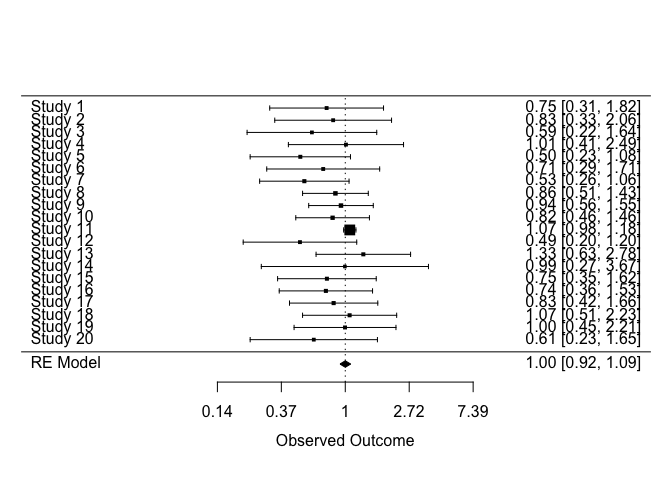
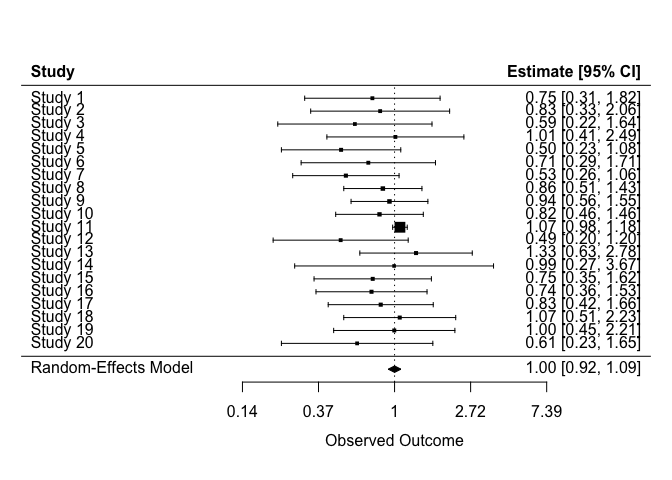
render README

diff --git a/README.md b/README.md
@@ -29,7 +29,7 @@ This package deals with steps 5 and 6.
 ## Installation
 
 ``` r
-devtools::install_github("mcguinlutriangulate")
+devtools::install_github("mcguinlu/triangulate")
 ```
 
 ## :warning: WARNING NOTES
@@ -104,8 +104,7 @@ head(dat_bias)
 #> 6          None Moderate Prop Away from null
 
 tri_dat_check(dat_bias)
-#> Looks good!
-#> All expected columns are present in the dataset.
+#> tri_dat_check(): All expected columns are present (mode = 'minimal').
 ```
 
 For details on how to create these datasets, see the [Creating
@@ -117,25 +116,22 @@ Once we load our data, helper functions will convert it to *long* format
 and convert to absolute directions of bias/indirectness.
 
 ``` r
-
 dat_bias <- triangulate::dat_bias %>%
 
 # Convert to long format
 tri_to_long() %>%
-  
-tri_absolute_direction() %>%
-
-tri_append_bias(triangulate::dat_bias_values)
+  tri_absolute_direction() %>%
+  tri_append_bias(triangulate::dat_bias_values)
 ```
 
 Then apply the same approach to the indirectness dataset:
 
 ``` r
 dat_ind <- triangulate::dat_ind %>%
-# Convert to long format
-tri_to_long() %>%
-tri_absolute_direction() %>%
-tri_append_indirect(triangulate::dat_ind_values)
+  # Convert to long format
+  tri_to_long() %>%
+  tri_absolute_direction() %>%
+  tri_append_indirect(triangulate::dat_ind_values)
 ```
 
 ## Add prior distributions of bias/indirectness
@@ -155,10 +151,6 @@ that we can use to
 
 ``` r
 dat_final <- tri_prep_data(dat_bias, dat_ind)
-#> Joining with `by = join_by(result_id)`
-#> Joining with `by = join_by(result_id)`
-#> Joining with `by = join_by(result_id)`
-#> Joining with `by = join_by(result_id)`
 ```
 
 At this point, we have an unadjusted (*yi*, *vi*) and adjusted
@@ -167,7 +159,6 @@ At this point, we have an unadjusted (*yi*, *vi*) and adjusted
 These estimates can then simply be passed to `metafor` for analysis
 
 ``` r
-
 model <- metafor::rma(
   yi = yi,
   vi = vi,
@@ -183,7 +174,7 @@ metafor::forest(
 )
 ```
 
-<img src="man/figures/README-unnamed-chunk-8-1.png" width="100%" height="400" />
+<img src="man/figures/README-unnamed-chunk-8-1.png" width="100%" />
 
 ``` r
 
@@ -202,4 +193,4 @@ metafor::forest(
 )
 ```
 
-<img src="man/figures/README-unnamed-chunk-8-2.png" width="100%" height="400" />
+<img src="man/figures/README-unnamed-chunk-8-2.png" width="100%" />
